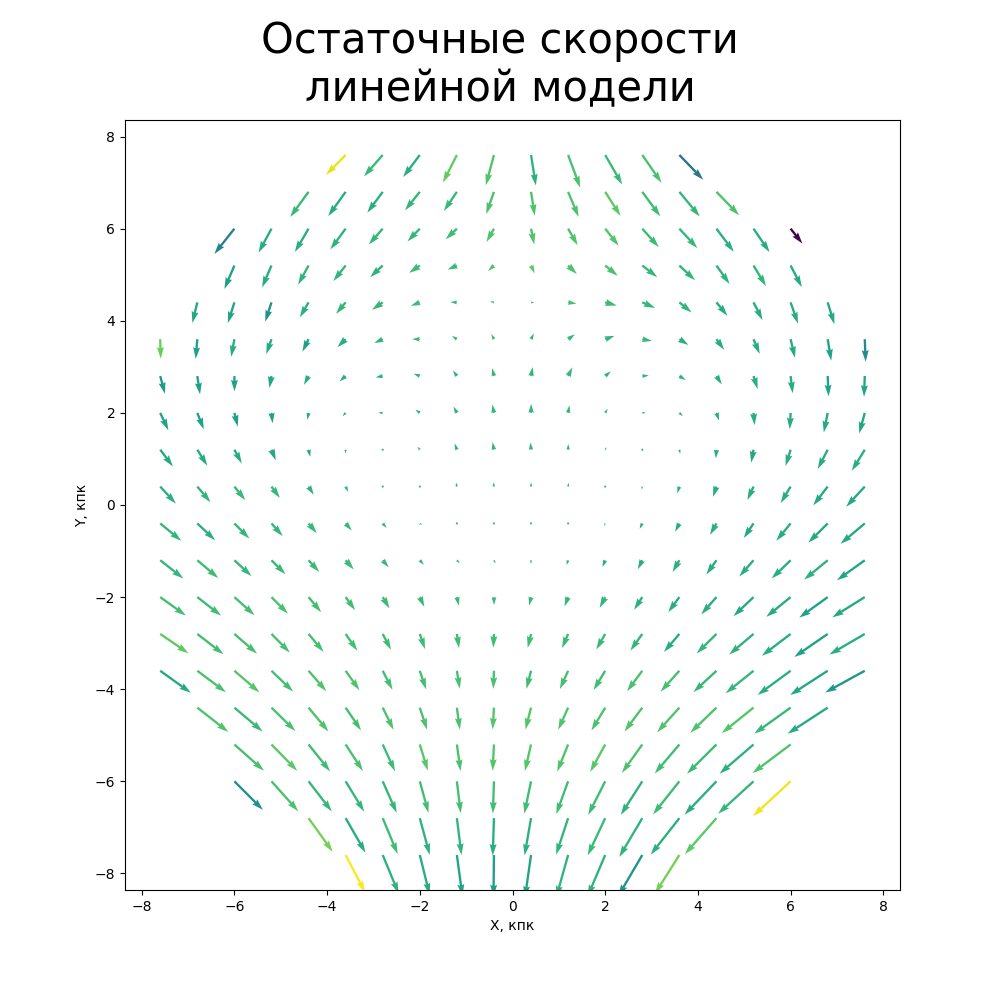
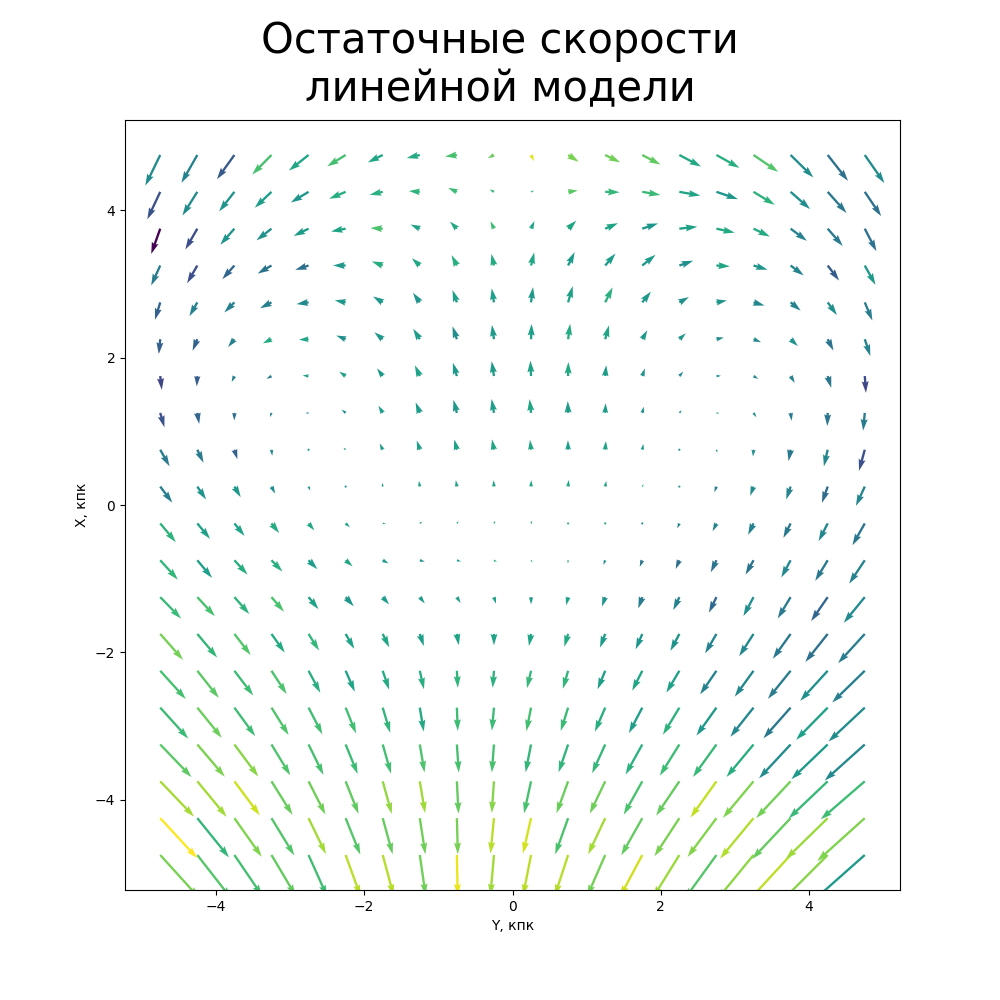
10.12.22

diff --git a/cartesian/cartesian_decomposer.py b/cartesian/cartesian_decomposer.py
@@ -3,6 +3,7 @@ from astropy.coordinates import CartesianRepresentation
 from sklearn import linear_model
 from sklearn.linear_model import LinearRegression
 from sklearn.preprocessing import PolynomialFeatures
+import statsmodels.api as sm
 
 from cartesian.common_cartesian import *
 from curve.sistematic3d import show_velocity
@@ -22,10 +23,10 @@ def main():
     #
     # c = Galactic(u=df.x * u.kpc, v=df.y * u.kpc, w=df.z * u.kpc, representation_type="cartesian", U=linear_vx * u.km/u.s, V=linear_vy * u.km/u.s,  W=linear_vz * u.km/u.s)
 
-    p = PolynomialFeatures(degree=1).fit(X1)
+    p = PolynomialFeatures(degree=2).fit(X1)
     # print(p.get_feature_names(X.columns))
 
-    X = X1 # pd.DataFrame(p.transform(X1), columns=p.get_feature_names(X1.columns))
+    X = pd.DataFrame(p.transform(X1), columns=p.get_feature_names(X1.columns))
 
     precision = 0.01
 
@@ -34,33 +35,101 @@ def main():
 
     print(X.columns)
 
+    models = []
+
     for vname, y in [('vx', df.vx), ('vy', df.vy), ('vz', df.vz)]:
-        model = linear_model.Lasso(alpha=alpha, fit_intercept=False)
-    # model = make_pipeline(PolynomialFeatures(degree=1), LinearRegression(fit_intercept=False))
-        model = LinearRegression(fit_intercept=True)
-        model.fit(X, y)
+        # model = linear_model.Lasso(alpha=alpha, fit_intercept=False)
+        # model = make_pipeline(PolynomialFeatures(degree=1), LinearRegression(fit_intercept=False))
+        # model = LinearRegression(fit_intercept=False)
+        # model.fit(X, y)
 
-        print(model)
+        # y_pred = model.predict(X)
+        # diff = y - y_pred
+        #
 
-        y_pred = model.predict(X)
-        diff = y - y_pred
+        ols = sm.OLS(y, X)
+        res = ols.fit()
 
+        # print(res.summary())
+
+        models.append(res)
 
         # model.coef_[]
 
         print(vname + ' = ', end='\t')
-        for i, col in enumerate(X.columns.values):
-            if abs(model.coef_[i]) > precision:
-                print(f'+ {model.coef_[i]:.2f} * {col}', end='\t')
+        # for i, col in enumerate(X.columns.values):
+        #     if abs(model.coef_[i]) > precision:
+        #         print(f'+ {model.coef_[i]:.2f} * {col}', end='\t')
+        for i in range(len(res.params)):
+            val = res.params[i]
+            err = res.bse[i]
+            col = res.params.keys()[i]
+            print(f'+ {val:.2f} * {col}', end='\t')
+
+        print()
+
+        print(vname, end='\t')
+        for i in range(len(res.params)):
+            val = res.params[i]
+            err = res.bse[i]
+            col = res.params.keys()[i]
+            print(f'\t{val:.3f}±{err:.3f} * {col}', end=',')
+
+        print()
+
+    vx = models[0]
+    vy = models[1]
+    vz = models[2]
+
+    U = -vx.params[0]
+    dU = vx.bse[0]
+    V = -vy.params[0]
+    dV = vy.bse[0]
+    W = -vz.params[0]
+    dW = vz.bse[0]
+
+    M11 = vx.params[1]
+    dM11 = vx.bse[1]
+    M22 = vy.params[2]
+    dM22 = vy.bse[2]
+    M33 = vz.params[3]
+    dM33 = vz.bse[3]
+
+    w1 = (- vx.params[2] + vy.params[1]) / 2
+    dw1 = sigma(vx.bse[2], vy.bse[1]) / 2
+    w2 = (vx.params[3] - vz.params[1]) / 2
+    dw2 = sigma(vx.bse[3], vz.bse[1]) / 2
+    w3 = (- vy.params[3] + vz.params[2]) / 2
+    dw3 = sigma(vy.bse[3], vz.bse[2]) / 2
+
+    print()
+
+    print(f'w1={w1:.3f}±{dw1:.3f}')
+    print(f'w2={w2:.3f}±{dw2:.3f}')
+    print(f'w3={w3:.3f}±{dw3:.3f}')
+
+    M12 = (vx.params[2] + vy.params[1]) / 2
+    dM12 = sigma(vx.bse[2], vy.bse[1]) / 2
+    M13 = (vx.params[3] + vz.params[1]) / 2
+    dM13 = sigma(vx.bse[3], vz.bse[1]) / 2
+    M23 = (vy.params[3] + vz.params[2]) / 2
+    dM23 = sigma(vy.bse[3], vz.bse[2]) / 2
+
+    print()
+
+    print(f'M12={M12:.3f}±{dM12:.3f}')
+    print(f'M13={M13:.3f}±{dM13:.3f}')
+    print(f'M23={M23:.3f}±{dM23:.3f}')
 
     # print(model.score(X, y))
-        print()
 
     print()
 
     # compute_decomposition()
 
 
+def sigma(err1, err2):
+    return (err1 ** 2 + err2 ** 2) ** 0.5
 
 def compute_decomposition():
     # for i, z in enumerate([-1.5, -1, -0.5, 0, 0.5, 1, 1.5]):

diff --git a/cartesian/resudials2d.py b/cartesian/resudials2d.py
@@ -1,23 +1,96 @@
+from scipy import stats
+
 from cartesian.common_cartesian import read_gaia_with_rv_residuals
 from curve.sistematic3d import show_velocity
+import numpy as np
+
+def show_velocity2d():
+    for r in [1, 5, 8]:
+        for degree, title in [[1, 'линейной модели'], [2, 'квадратичной модели']]:
+            df = read_gaia_with_rv_residuals(degree)
+
+            print(df)
+
+            min_x = -r
+            max_x = r
+            min_y = -r
+            max_y = r
+            min_z = -0.1
+            max_z = 0.1
+            show_velocity(df, f"Остаточные скорости", title + f" до {r} кпк", r,
+                          min_x=min_x,
+                          max_x=max_x,
+                          min_y=min_y,
+                          max_y=max_y,
+                          min_z=min_z,
+                          max_z=max_z,
+                          bin_count=20)
+
+
+def show_velocity_table():
+    for d in [1, 2]:
+        show_table(d, 5)
+
+def show_table(degree, r):
+    print(f'degree={degree}')
+
+    df = read_gaia_with_rv_residuals(degree)
+
+    min_x = -r
+    max_x = r
+    min_y = -r
+    max_y = r
+    min_z = -0.1
+    max_z = 0.1
+
+    df_x = df[(df.y >= min_y) & (df.y <= max_y) & (df.z >= min_z) & (df.z <= max_z)]
+    df_y = df[(df.x >= min_x) & (df.x <= max_x) & (df.z >= min_z) & (df.z <= max_z)]
+
+    step = 0.5
+    bins = np.arange(min_x, max_x + step, step)
+
+    xvx_means, _, _ = stats.binned_statistic(df_x.x, df_x.vx, statistic='mean', bins=bins)
+    xvy_means, _, _ = stats.binned_statistic(df_x.x, df_x.vy, statistic='mean', bins=bins)
+    xvz_means, _, _ = stats.binned_statistic(df_x.x, df_x.vz, statistic='mean', bins=bins)
+
+    yvx_means, _, _ = stats.binned_statistic(df_y.y, df_y.vx, statistic='mean', bins=bins)
+    yvy_means, _, _ = stats.binned_statistic(df_y.y, df_y.vy, statistic='mean', bins=bins)
+    yvz_means, _, _ = stats.binned_statistic(df_y.y, df_y.vz, statistic='mean', bins=bins)
+
+    print(end=',')
+    for l in bins:
+        r = l + step
+        print(f'{l}', end=',')
+    print()
+    print('vx', end=',')
+    for i in range(len(bins) - 1):
+        print(f'{xvx_means[i]:.1f}', end=',')
+    print()
+    print('vy', end=',')
+    for i in range(len(bins) - 1):
+        print(f'{xvy_means[i]:.1f}', end=',')
+    print()
+    print('vz', end=',')
+    for i in range(len(bins) - 1):
+        print(f'{xvz_means[i]:.1f}', end=',')
+    print()
+    print()
+
+    for l in bins:
+        r = l + step
+        print(f'{l}', end=',')
+    print()
+    for i in range(len(bins) - 1):
+        print(f'{yvx_means[i]:.1f}', end=',')
+    print()
+    for i in range(len(bins) - 1):
+        print(f'{yvy_means[i]:.1f}', end=',')
+    print()
+    for i in range(len(bins) - 1):
+        print(f'{yvz_means[i]:.1f}', end=',')
+    print()
+
 
 if __name__ == '__main__':
-    for degree, title in [[1, 'линейной модели'], [2, 'квадратичной модели']]:
-        df = read_gaia_with_rv_residuals(degree)
-
-        print(df)
-
-        min_x = -8
-        max_x = 8
-        min_y = -8
-        max_y = 8
-        min_z = -100500
-        max_z = 100500
-        show_velocity(df, f"Остаточные скорости", title, 0,
-                      min_x=min_x,
-                      max_x=max_x,
-                      min_y=min_y,
-                      max_y=max_y,
-                      min_z=min_z,
-                      max_z=max_z,
-                      bin_count=20)
+    # show_velocity2d()
+    show_velocity_table()

diff --git a/curve/galactocentric_vy.py b/curve/galactocentric_vy.py
@@ -1,0 +1,37 @@
+from astropy.coordinates import Galactocentric
+
+from cartesian.common_cartesian import read_galactic, read_radec
+from common.gaia.with_rv import read_gaia_with_rv_xyz
+import pandas as pd
+from scipy import stats
+from matplotlib import pyplot as plt
+
+
+def main():
+    c = read_radec()
+    gc = c.transform_to(Galactocentric)
+    df = pd.DataFrame(dict(x=gc.cartesian.x.value,
+                             y=gc.cartesian.y.value,
+                             z=gc.cartesian.z.value,
+                             vx=gc.velocity.d_x.value,
+                             vy=gc.velocity.d_y.value,
+                             vz=gc.velocity.d_z.value))
+    df = df[((df.y < 10) & (df.z < 10))]
+    # bin_means, bin_edges, binnumber = stats.binned_statistic(df.x, df.vy / (-df.x / 1000), bins=200, range=[-16000, 0], statistic='median')
+    # plt.stairs(bin_means, bin_edges, baseline=None)
+    # plt.xlabel('Галактическая координата X, пк')
+    # plt.ylabel('Галактическая угловая скорость Vy / R, км/с/кпк')
+    # plt.title('Кривая вращения Галактики на луче зрения от Солнца к Центру')
+    # plt.show()
+
+    bin_means, bin_edges, binnumber = stats.binned_statistic(df.x, df.vy, bins=200, range=[-16000, 0],
+                                                             statistic='median')
+    plt.stairs(bin_means, bin_edges, baseline=None)
+    plt.xlabel('Галактическая координата X, пк')
+    plt.ylabel('Галактическая скорость Vy, км/с')
+    plt.title('Скорость вращения Галактики на луче зрения от Солнца к Центру')
+    plt.show()
+
+
+if __name__ == '__main__':
+    main()

diff --git a/curve/sistematic3d.py b/curve/sistematic3d.py
@@ -46,7 +46,7 @@ def read_gaia_with_rv_redisuals_xyz():
                              vy=np.array(c.velocity.d_y),
                              vz=np.array(c.velocity.d_z)))
 
-def show_velocity(df, title, subtitle, order, min_x, max_x, min_y, max_y, min_z, max_z, bin_count):
+def show_velocity(df, title, subtitle, r, min_x, max_x, min_y, max_y, min_z, max_z, bin_count):
     bins_x = np.linspace(min_x, max_x, bin_count + 1)
     bins_y = np.linspace(min_y, max_y, bin_count + 1)
 
@@ -79,7 +79,7 @@ def show_velocity(df, title, subtitle, order, min_x, max_x, min_y, max_y, min_z,
     y_averages = (y_edge[:-1] + y_edge[1:]) / 2
 
 
-    X, Y = np.meshgrid(x_averages, y_averages)
+    X, Y = np.meshgrid(x_averages, y_averages, indexing='ij')
 
     fig, ax = plt.subplots()
 
@@ -98,7 +98,7 @@ def show_velocity(df, title, subtitle, order, min_x, max_x, min_y, max_y, min_z,
     # np.savetxt('vz_std.tsv', z_std, fmt='%1.3f', delimiter=',')
     # np.savetxt('count.tsv', count, fmt='%1.0f', delimiter=',')
 
-    ax.quiver(X, Y, x_means, y_means, C, width=0.003)
+    ax.quiver(X, Y, x_means, y_means, C, angles='xy', scale_units='xy', scale=200 / (r ** 0.5))
 
     width_x = 10
 
@@ -113,7 +113,7 @@ def show_velocity(df, title, subtitle, order, min_x, max_x, min_y, max_y, min_z,
     dir = f'fig/{title}'
     Path(dir).mkdir(parents=True, exist_ok=True)
 
-    path = f'{dir}/{order}_{subtitle}.png'
+    path = f'{dir}/{r}_{subtitle}.png'
     fig.savefig(path)
 
     plt.show()

diff --git a/curve/galactic_vy.py b/curve/galactic_vy.py
@@ -1,0 +1,43 @@
+from astropy.coordinates import Galactocentric
+
+from cartesian.common_cartesian import read_galactic, read_radec, read_gaia_with_rv_cartesian
+from common.gaia.with_rv import read_gaia_with_rv_xyz
+import pandas as pd
+from scipy import stats
+from matplotlib import pyplot as plt
+
+
+def main():
+    df = read_gaia_with_rv_cartesian()
+
+    df = df[((df.y < 0.010) & (df.z < 0.010))]
+
+    bin_means, bin_edges, binnumber = stats.binned_statistic(df.x, df.vy, bins=200, range=[-8.0, 8.0],
+                                                             statistic='mean')
+
+    x = (bin_edges[:-1] + bin_edges[1:]) / 2
+
+    y = -30.753 -11.174 * x
+
+    y2 = -21.644 -4.774*x -1.811*x**2
+
+    # y3 = -21.31 -1.38 * x ** 2
+
+    plt.stairs(bin_means, bin_edges, baseline=None, label='Усредненные значения vy звезд')
+
+    plt.plot(x, y, label='Модель Огордникова-Милна (табл. 1, 2)', linestyle='dashed')
+
+    plt.plot(x, y2, label='Квадратичная модель (табл. 5)', linestyle='dashdot')
+
+    plt.legend()
+
+    plt.xlabel('x, кпк')
+    plt.ylabel('vy, км/с')
+    plt.title('Скорость движения звезд вдоль оси y\nдля звезд вблизи оси x')
+    # plt.show()
+
+    plt.savefig('galactic_vy.png')
+
+
+if __name__ == '__main__':
+    main()
